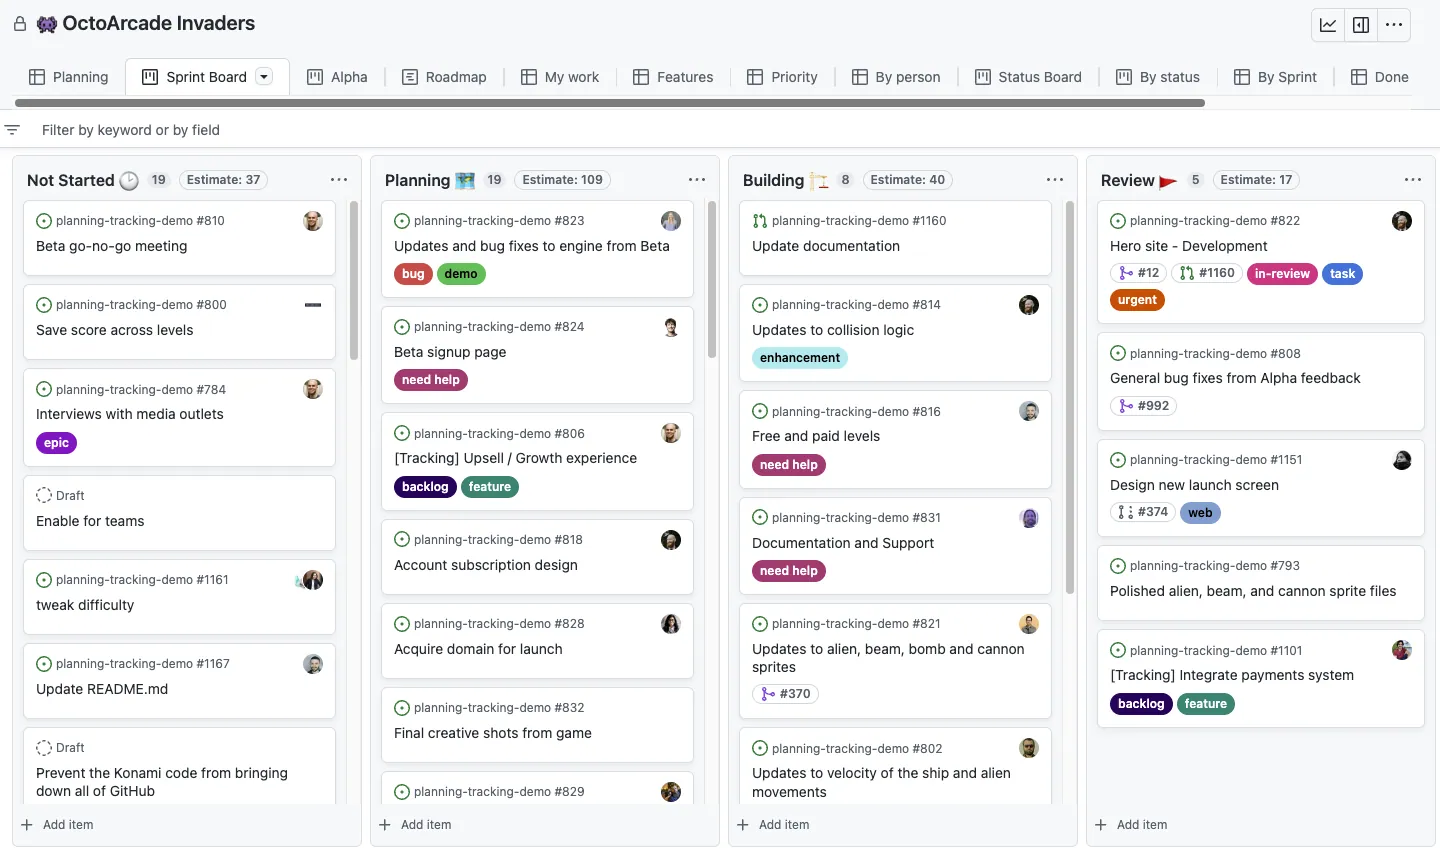
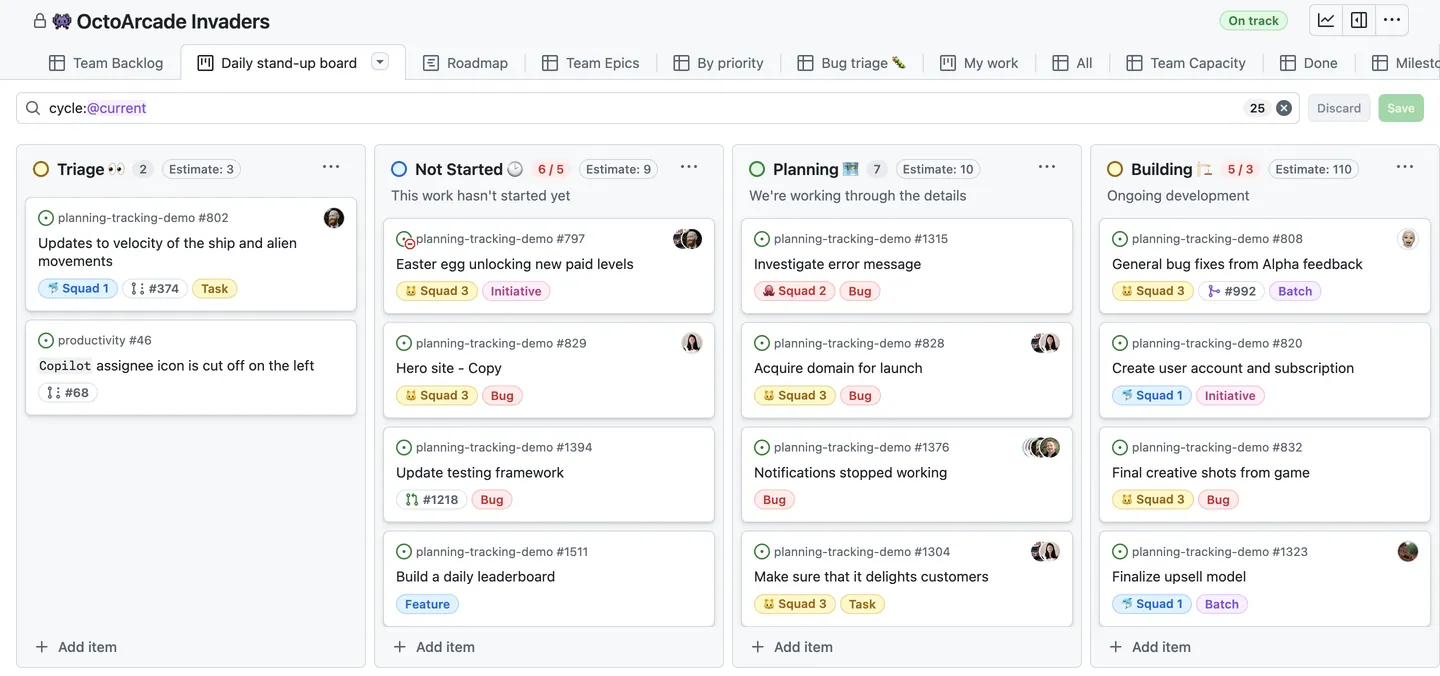
Fixed figure caption labels, now with source

diff --git a/sections/05-metodologia.tex b/sections/05-metodologia.tex
@@ -89,9 +89,10 @@ mismo reporte (\texttt{report}).
 \begin{figure}[htbp]
     \centering
     \includegraphics[width=1.00\textwidth]{images/extractor-git-remote}
-    \caption{Repositorio \texttt{extractor} en GitHub.com}%
+    \figcaption{Repositorio \texttt{extractor} en GitHub.com}%
     \label{fig:extractor-git-remote}
 \end{figure}
+
 \FloatBarrier
 
 \subsubsection{GitHub Projects}
@@ -108,7 +109,7 @@ en el código fuente para resolver esa tarea, además de poder categorizarlas co
 \begin{figure}[htbp]
     \centering
     \includegraphics[width=1.00\textwidth]{images/github-issues}
-    \caption{Captura de ejemplo de una \textit{issue} del proyecto extraída de la documentación oficial de GitHub}%
+    \figcaption{Captura de ejemplo de una \textit{issue} del proyecto}{\sourcelink{GitHub Docs}{https://docs.github.com/es/issues/tracking-your-work-with-issues/learning-about-issues/planning-and-tracking-work-for-your-team-or-project}}%
     \label{fig:github-issues}
 \end{figure}
 
@@ -125,7 +126,7 @@ finalizada, dado que ya fueron integradas a la implementación final.
 \begin{figure}[htbp]
     \centering
     \includegraphics[width=1.00\textwidth]{images/github-projects-board}
-    \caption{Captura de ejemplo de una vista \textit{board} del proyecto extraída de la documentación oficial de GitHub}%
+    \figcaption{Captura de ejemplo de una vista \textit{board} del proyecto}{\sourcelink{GitHub Docs}{https://docs.github.com/es/issues/planning-and-tracking-with-projects/learning-about-projects/best-practices-for-projects}}%
     \label{fig:github-projects-board}
 \end{figure}
 
@@ -140,8 +141,7 @@ las tareas se fueron resolviendo en cada momento.
 \begin{figure}[htbp]
     \centering
     \includegraphics[width=1.00\textwidth]{images/github-projects-roadmap}
-    \caption{Captura de ejemplo de una vista \textit{roadmap} del proyecto extraída de la documentación oficial de
-    GitHub}%
+    \figcaption{Captura de ejemplo de una vista \textit{roadmap} del proyecto}{\sourcelink{GitHub Docs}{https://docs.github.com/es/issues/planning-and-tracking-with-projects/learning-about-projects/best-practices-for-projects}}%
     \label{fig:github-projects-roadmap}
 \end{figure}
 
@@ -183,7 +183,7 @@ City con destino a Toronto y otro desde Toronto hacia la ciudad de Chicago, Esta
         \centering
         \includegraphics[width=\linewidth]{images/eml-yqb-ord-2}
     \end{minipage}
-    \caption{Ejemplo de un correo electrónico de reserva de un vuelo de dos segmentos de Air Canada (primera parte).}%
+    \figcaption{Ejemplo de un correo electrónico de reserva de un vuelo de dos segmentos de Air Canada (primera parte).}%
     \label{fig:eml-yqb-ord-part-a}
 \end{figure}
 
@@ -198,7 +198,7 @@ City con destino a Toronto y otro desde Toronto hacia la ciudad de Chicago, Esta
         \centering
         \includegraphics[width=\linewidth]{images/eml-yqb-ord-4}
     \end{minipage}
-    \caption{Ejemplo de un correo electrónico de reserva de un vuelo de dos segmentos de Air Canada (segunda parte).}%
+    \figcaption{Ejemplo de un correo electrónico de reserva de un vuelo de dos segmentos de Air Canada (segunda parte).}%
     \label{fig:eml-yqb-ord-part-b}
 \end{figure}
 
@@ -228,7 +228,7 @@ City con destino a la ciudad de Chicago, Estados Unidos:
         \centering
         \includegraphics[width=\linewidth]{images/eml-reminder-yqb-ord-2}
     \end{minipage}
-    \caption{Ejemplo de un correo electrónico de recordatorio de \textit{check-in} de un vuelo de un tramo de American
+    \figcaption{Ejemplo de un correo electrónico de recordatorio de \textit{check-in} de un vuelo de un tramo de American
     Airlines.}%
     \label{fig:eml-reminder-yqb-ord}
 \end{figure}
@@ -270,7 +270,7 @@ con destino a la ciudad de Viena (Austria):
         \centering
         \includegraphics[width=\linewidth]{images/eml-boarding-pass-fra-vie-4}
     \end{minipage}
-    \caption{Ejemplo de un correo electrónico de \textit{boarding pass} de un vuelo de un tramo de Austrian.}%
+    \figcaption{Ejemplo de un correo electrónico de \textit{boarding pass} de un vuelo de un tramo de Austrian.}%
     \label{fig:eml-boardingpass-fra-vie}
 \end{figure}
 
@@ -337,7 +337,7 @@ cargar en el repositorio Git el archivo de extensión .dvc y el archivo del corr
         \centering
         \includegraphics[width=\linewidth]{images/dataset-git-remote}
     \end{minipage}
-    \caption{Repositorio \texttt{dataset} en DagsHub y GitHub.com.}%
+    \figcaption{Repositorio \texttt{dataset} en DagsHub y GitHub.com.}%
     \label{fig:dataset-dvc-git-remote}
 \end{figure}
 
@@ -487,7 +487,7 @@ otros.
 \begin{figure}[htbp]
     \centering
     \includegraphics[width=1.00\textwidth]{images/pipeline}
-    \caption{Diagrama del \textit{pipeline} de CoreNLP}%
+    \figcaption{Diagrama del \textit{pipeline} de CoreNLP}{\sourcelink{CoreNLP}{https://stanfordnlp.github.io/CoreNLP/}}%
     \label{fig:corenlp-pipeline}
 \end{figure}
 

diff --git a/sections/06-experimentacion-y-conclusiones.tex b/sections/06-experimentacion-y-conclusiones.tex
@@ -18,7 +18,7 @@ donde un usuario puede registrarse (Ver \autoref{fig:web-register-login}) y lueg
         \centering
         \includegraphics[width=\linewidth]{images/web-login}
     \end{minipage}
-    \caption{Pantallas de registro y login}%
+    \figcaption{Pantallas de registro y login}%
     \label{fig:web-register-login}
 \end{figure}
 
@@ -34,7 +34,7 @@ para que puedan ser consultados en la sección ``My Trips'' (Ver \autoref{fig:we
 \begin{figure}[htbp]
     \centering
     \includegraphics[width=1.00\textwidth]{images/web-home}
-    \caption{Página Principal}%
+    \figcaption{Página Principal}%
     \label{fig:web-home}
 \end{figure}
 
@@ -55,7 +55,7 @@ de POIs.
 \begin{figure}[htbp]
     \centering
     \includegraphics[width=1.00\textwidth]{images/web-interests}
-    \caption{Edición de los intereses del usuario}%
+    \figcaption{Edición de los intereses del usuario}%
     \label{fig:web-interests}
 \end{figure}
 
@@ -70,7 +70,7 @@ Al final se ofrece también el nombre del pasajero y el código de reserva.
 \begin{figure}[htbp]
     \centering
     \includegraphics[width=1.00\textwidth]{images/web-trip-flights}
-    \caption{Detalles de los segmentos aéreos del viaje}%
+    \figcaption{Detalles de los segmentos aéreos del viaje}%
     \label{fig:web-trip-flights}
 \end{figure}
 
@@ -98,7 +98,7 @@ La implementación permite almacenar un itinerario de recomendaciones por ciudad
 \begin{figure}[htbp]
     \centering
     \includegraphics[width=1.00\textwidth]{images/web-trip-activities}
-    \caption{Detalles de las recomendaciones de POIs del viaje}%
+    \figcaption{Detalles de las recomendaciones de POIs del viaje}%
     \label{fig:web-trip-activities}
 \end{figure}
 
@@ -131,7 +131,7 @@ A continuación se presenta el diagrama de arquitectura correspondiente (Ver \au
 \begin{figure}[htbp]
     \centering
     \includegraphics[width=\textwidth,height=0.82\textheight,keepaspectratio,trim=190 190 190 190,clip]{docs/diagram}
-    \caption{Diagrama de arquitectura.}%
+    \figcaption{Diagrama de arquitectura.}%
     \label{fig:architecture-diagram}
 \end{figure}
 
@@ -178,7 +178,7 @@ A continuación se presenta el modelo relacional correspondiente (Ver \autoref{f
 \begin{figure}[htbp]
     \centering
     \resizebox{0.96\textwidth}{!}{\input{images/db-model-diagram.tikz}}
-    \caption{Modelo relacional de la base de datos.}%
+    \figcaption{Modelo relacional de la base de datos.}%
     \label{fig:db-model-diagram}
 \end{figure}
 
@@ -364,7 +364,8 @@ const fetchImageUrlForTitle = async (title) => {
 };
 \end{lstlisting}
 
-\subsection{Deployment: email2trip.xyz}
+\subsection{Deployment: email2trip.xyz}%
+\label{subsec:deployment}
 
 En esta sección se detalla el uso de Docker para orquestar los servicios necesarios, Terraform para definir la
 infraestructura en la nube necesaria y las particularidades del proveedor de servicios en la nube elegido, Azure.

diff --git a/preamble.tex b/preamble.tex
@@ -60,6 +60,7 @@
 \usepackage[T1]{fontenc}
 \usepackage{lmodern}
 \usepackage{graphicx}
+\usepackage{caption}
 \usepackage{tikz}
 \usepackage{colortbl}
 \usepackage{listings}
@@ -135,9 +136,20 @@
 
 \usepackage{titlesec}
 \titlelabel{\thetitle\quad}  % Esto elimina el punto
+\captionsetup[figure]{
+    justification=centering,
+    singlelinecheck=false
+}
+\newcommand{\figsource}[1]{\\Fuente: #1}
+\newcommand{\sourcelink}[2]{#1 \href{#2}{\nolinkurl{#2}}}
+\NewDocumentCommand{\figcaption}{m g}{%
+    \IfNoValueTF{#2}
+        {\caption{#1\figsource{Elaboración propia.}}}
+        {\caption{#1\figsource{#2}}}%
+}
 
 \usepackage{xurl}
-\usepackage[hidelinks,hypertexnames=false,unicode=true]{hyperref} % Para autoref
+\usepackage[hidelinks,hypertexnames=false,unicode=true,breaklinks=true]{hyperref}
 \hypersetup{bookmarksdepth=5}
 
 \lstdefinestyle{basecodestyle}{

diff --git a/sections/03-estado-de-la-cuestion.tex b/sections/03-estado-de-la-cuestion.tex
@@ -86,7 +86,7 @@ El usuario puede descargar la versión móvil desde las tiendas de aplicaciones 
     \centering
     \includegraphics[width=0.20\textwidth]{images/tripit1}
     \includegraphics[width=0.20\textwidth]{images/tripit2}
-    \caption{Capturas de pantalla de la aplicación TripIt}%
+    \figcaption{Capturas de pantalla de la aplicación TripIt}{\sourcelink{App Store para iPhone}{https://apps.apple.com/ar/app/tripit-travel-planner/id311035142}}%
     \label{fig:tripit}
 \end{figure}
 
@@ -114,6 +114,7 @@ pasaporte, nacionalidad, entre otros.
 \end{revisado}
 
 \FloatBarrier
+
 \subsubsection{KDE Itinerary}
 
 \begin{revisado}
@@ -140,11 +141,12 @@ contenido HTML del correo.
     \centering
     \includegraphics[width=0.20\textwidth]{images/kde1}
     \includegraphics[width=0.20\textwidth]{images/kde2}
-    \caption{Capturas de pantalla de la aplicación KDE Itinerary}%
+    \figcaption{Capturas de pantalla de la aplicación KDE Itinerary}{\sourcelink{KDE Apps}{https://apps.kde.org/es/itinerary/}}%
     \label{fig:kdeitinerary}
 \end{figure}
 
 \FloatBarrier
+
 \subsubsection{Amadeus Self-Service APIs: Trip Parser}
 
 \begin{revisado}